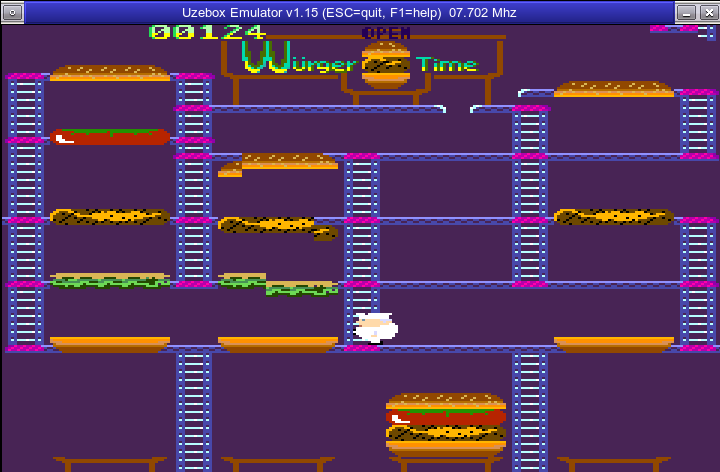
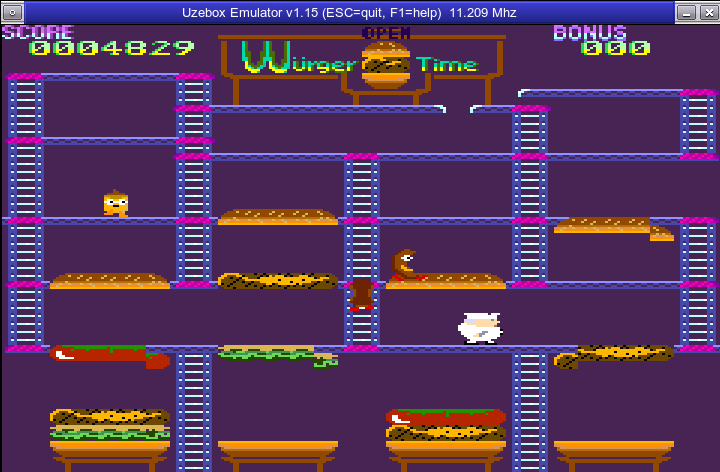
updated screenshot and description of progress

diff --git a/index.html b/index.html
@@ -32,9 +32,9 @@
 						<img src="images/Bildschirmfoto1.png" />
 						<img src="images/Bildschirmfoto2.png" />
 					</div>
-          <p>There's not much else to say about it. Only that this project is a work-in-progress. The visual artwork is nearly complete, it compiles and you can steer the cook through the ladder and platforms maze. Burger components are falling when the cook stomped them completely, and the falling chain reaction is working, too. All the parts that make you require skill to master the game are not done yet.</p>
-
-<p>I will update this page only every month or so. Please look at the sources or the <a href="http://uzebox.org/forums/viewtopic.php?f=5&amp;t=1764">discussion thread at the Uzebox forum</a> for up-to-date information on development progress.</p>
+          <p>Although this project is a work-in-progress, you can already play the game. The cook can run through the ladder and platforms maze, burger components are falling when the cook stomped them completely, and the falling chain reaction is working, too. There are three different enemies with different AI on screen and if they catch you, the cook dies and it all starts over. Try to hit the enemies with burger parts before they get you!
+					</p>
+					<p>I will update this page only every month or so. Please look at the sources or the <a href="http://uzebox.org/forums/viewtopic.php?f=5&amp;t=1764">discussion thread at the Uzebox forum</a> for up-to-date information on development progress.</p>
         </section>
 
         <aside id="sidebar">
